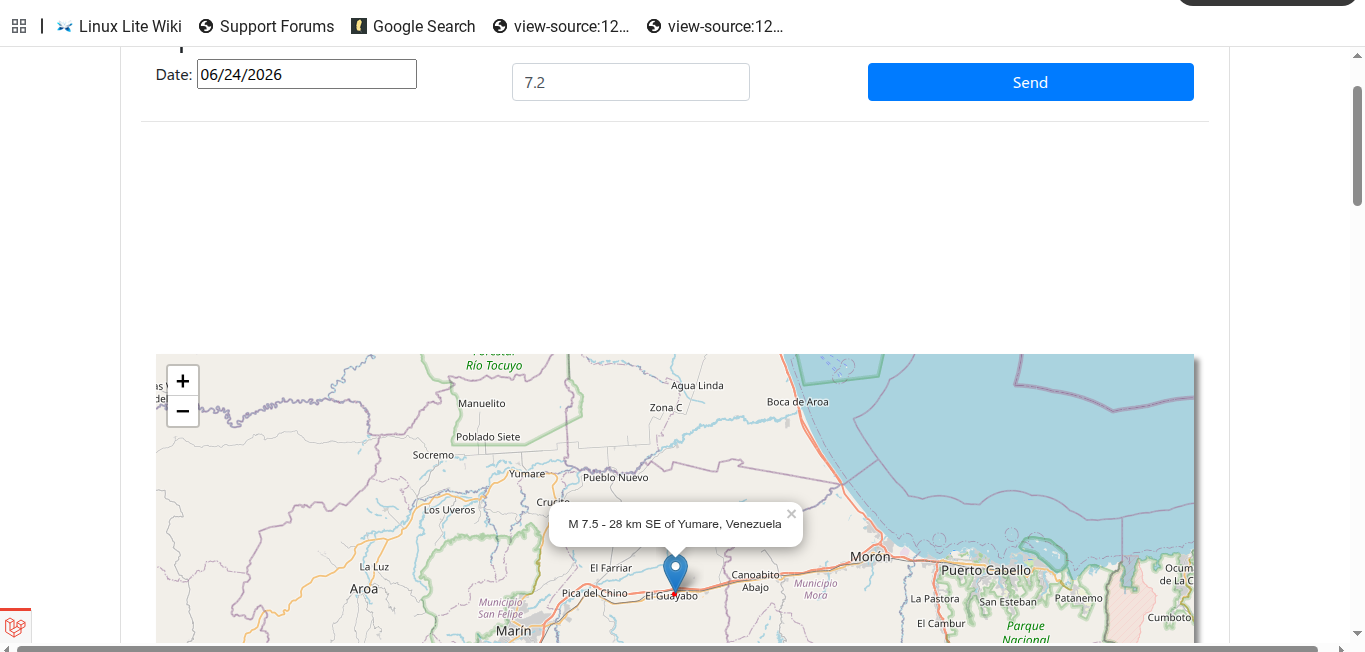
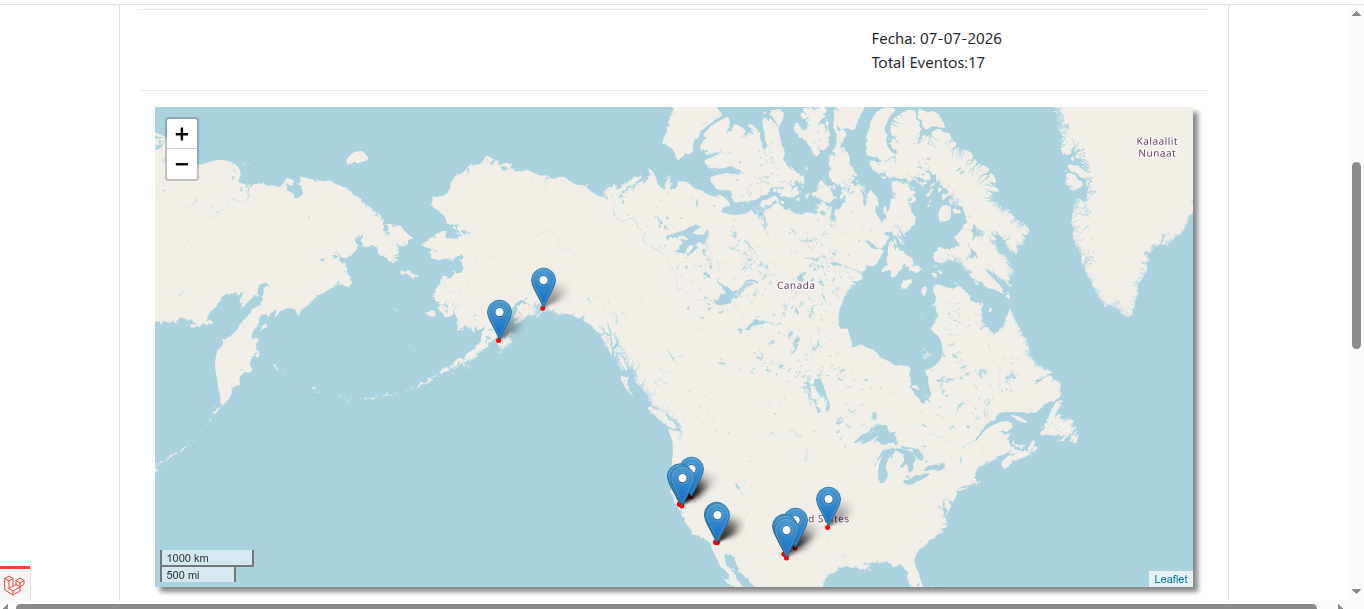
update img

diff --git a/README.md b/README.md
@@ -36,7 +36,7 @@ earthquake monitor web app.
   <a href="#donations"> Donations</a> •
 </p>
 
-![screenshot](gisem.png)
+![screenshot](gisem2.png)
 
 ## About
 A powerful Open Source Business Forum that can be installed on your server.Open source Laravel Forum
